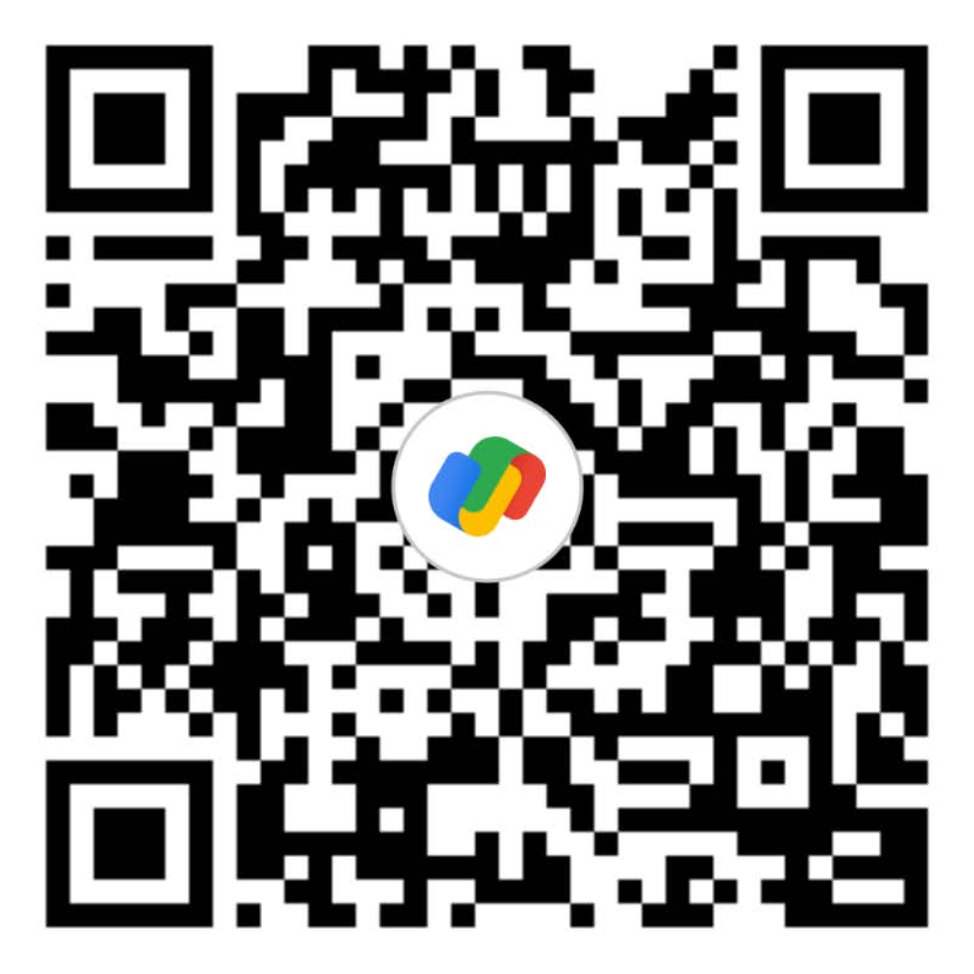
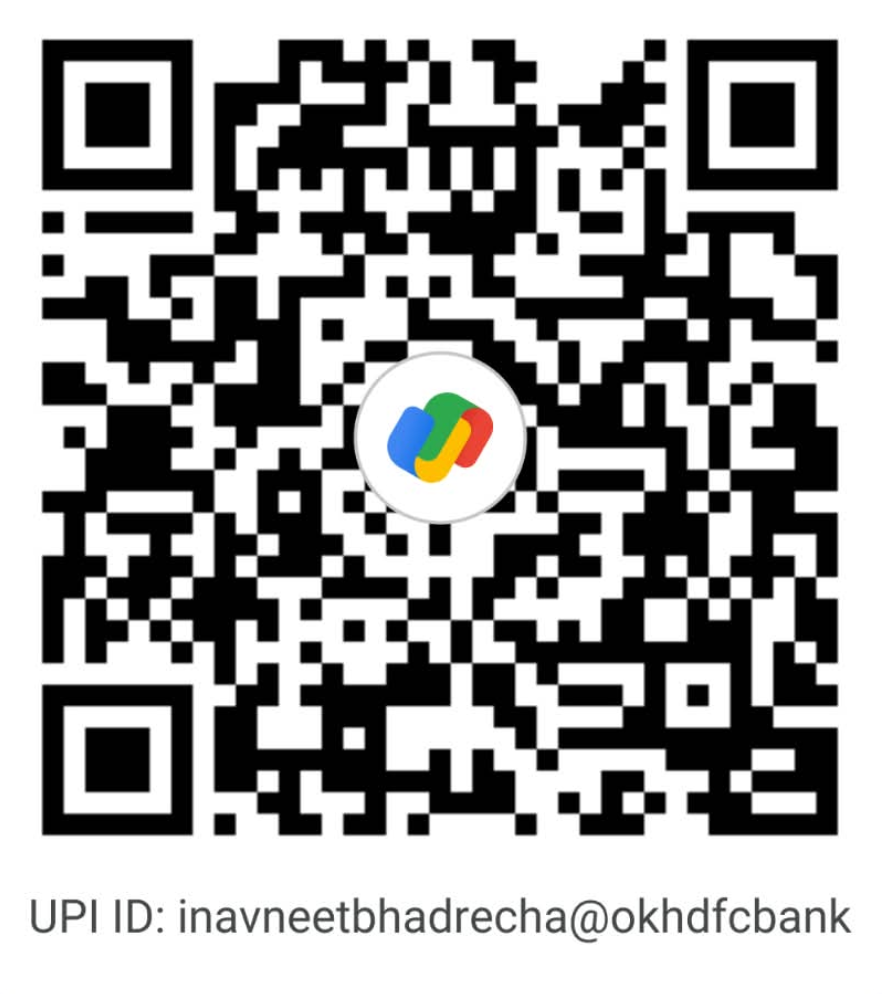
Fix QR code image, update UPI ID to inavneetbhadrecha@okhdfcbank and WhatsApp number to 8571041222 across the app

diff --git a/app/admin/settings/settings-form.tsx b/app/admin/settings/settings-form.tsx
@@ -44,7 +44,7 @@ export function SettingsForm({ initialSettings }: SettingsFormProps) {
 
         <Input
           label="Official UPI ID (QR Code & Payment Deep Links)"
-          placeholder="vlddnotes@upi"
+          placeholder="inavneetbhadrecha@okhdfcbank"
           value={upiId}
           onChange={(e) => setUpiId(e.target.value)}
           required
@@ -53,7 +53,7 @@ export function SettingsForm({ initialSettings }: SettingsFormProps) {
 
         <Input
           label="WhatsApp Support Number (10 digit bina +91 ke)"
-          placeholder="9876543210"
+          placeholder="8571041222"
           value={whatsappNumber}
           onChange={(e) => setWhatsappNumber(e.target.value)}
           required

diff --git a/components/app-header.tsx b/components/app-header.tsx
@@ -8,7 +8,7 @@ import { ThemeToggle } from '@/components/theme-toggle';
 import { Button } from '@/components/ui/button';
 import { logoutAction } from '@/app/actions/auth';
 import { cn } from '@/lib/utils';
-import { BATCHES } from '@/lib/constants';
+import { BATCHES, FALLBACK_SETTINGS } from '@/lib/constants';
 
 interface AppHeaderProps {
   studentName: string;
@@ -23,7 +23,7 @@ export function AppHeader({
   unlockedCount,
   siteNotice,
   isNoticeActive = false,
-  whatsappNumber = '919876543210',
+  whatsappNumber = FALLBACK_SETTINGS.whatsapp_number,
 }: AppHeaderProps) {
   const pathname = usePathname();
   const router = useRouter();

diff --git a/app/styleguide/page.tsx b/app/styleguide/page.tsx
@@ -513,7 +513,7 @@ export default function StyleguidePage() {
                   </div>
                   <div className="flex justify-between items-center">
                     <span className="text-xs text-ink-3">UPI ID:</span>
-                    <span className="font-mono text-xs text-ink-2 font-semibold">vlddnotes@upi</span>
+                    <span className="font-mono text-xs text-ink-2 font-semibold">inavneetbhadrecha@okhdfcbank</span>
                   </div>
                 </div>
                 <Button

diff --git a/lib/constants.ts b/lib/constants.ts
@@ -43,8 +43,8 @@ export const SECTION_COPY = {
 };
 
 export const FALLBACK_SETTINGS = {
-  upi_id: 'vlddnotes@upi',
-  whatsapp_number: '919857041222',
+  upi_id: 'inavneetbhadrecha@okhdfcbank',
+  whatsapp_number: '918571041222',
   site_notice: 'Naye batch ke notes upload ho rahe hain! Kisi bhi sahayata ke liye WhatsApp karein.',
   site_notice_active: 'true',
   bundle_password: 'VLDD99',
